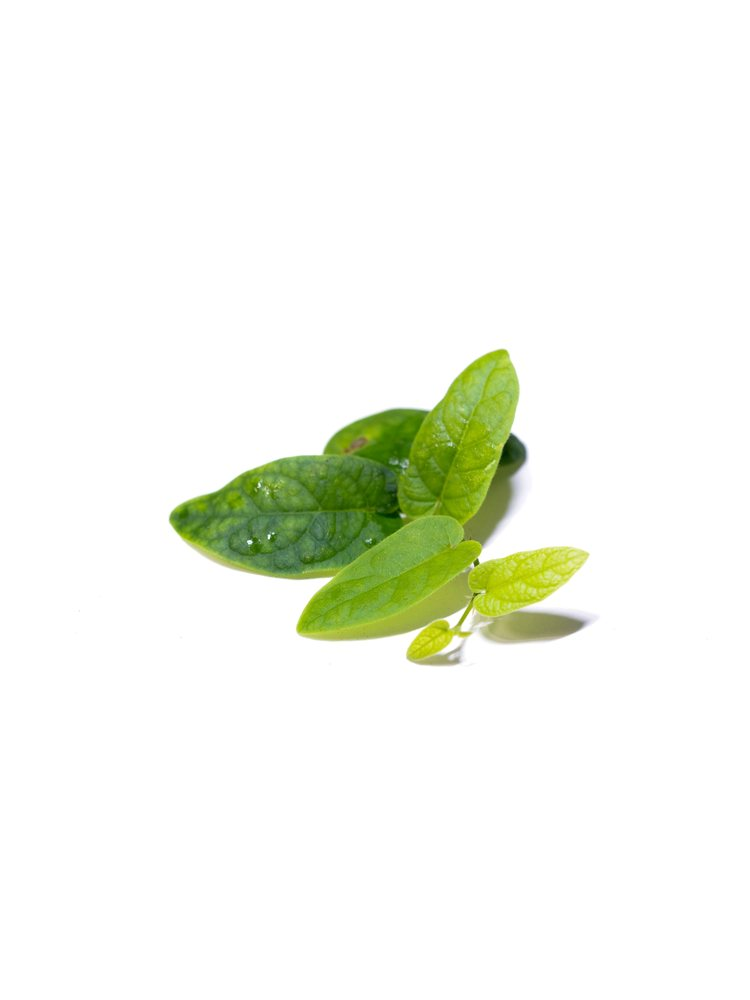
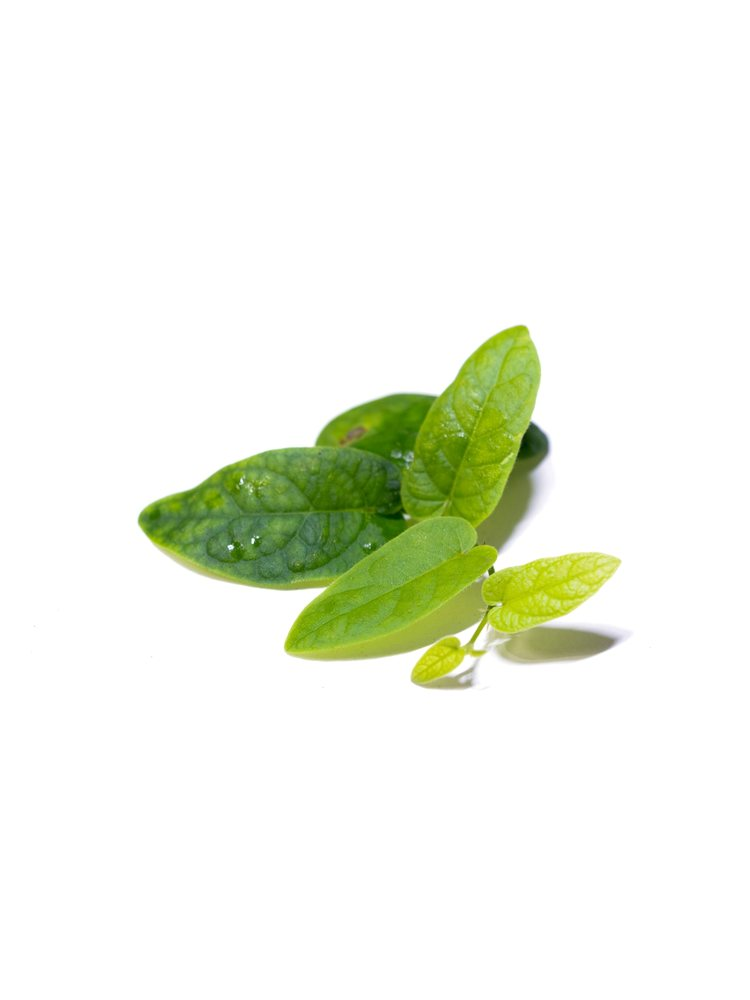
Show Ficus trichocarpa a little larger
Add a --size option to the photo tool for per-plant adjustment and
rebuild the trichocarpa photo at 1.15x; the other plants keep the
shared size.

Claude-Session: https://claude.ai/code/session_01RTzuFWkWY9WEpCoxYCoC66

Changed region(s): [[0.184, 0.31, 0.828, 0.713]]

diff --git a/plant/index.html b/plant/index.html
@@ -55,11 +55,11 @@
   <link rel="preconnect" href="https://fonts.googleapis.com">
   <link rel="preconnect" href="https://fonts.gstatic.com" crossorigin>
   <link rel="stylesheet" href="https://fonts.googleapis.com/css2?family=Figtree:ital,wght@0,300;0,700;0,800;1,300;1,700&family=Noto+Sans+KR:wght@300;700&family=Noto+Sans+JP:wght@300;700&display=swap">
-  <link rel="stylesheet" href="/assets/css/style.css?v=20261118t">
+  <link rel="stylesheet" href="/assets/css/style.css?v=20261118u">
 </head>
 <body class="page-sub">
   <!-- 상단 바 · PLANT 메뉴 (공통: assets/js/layout.js) -->
-  <script src="/assets/js/layout.js?v=20261118t"></script>
+  <script src="/assets/js/layout.js?v=20261118u"></script>
   <script>PM_LAYOUT.top()</script>
 
   <!-- ───────── PLANT 목록 ─────────
@@ -80,9 +80,9 @@
   <!-- 하단 · 검색 · 언어 창 (공통: assets/js/layout.js) -->
   <script>PM_LAYOUT.bottom()</script>
 
-  <script src="/assets/js/i18n.js?v=20261118t" defer></script>
-  <script src="/assets/js/main.js?v=20261118t" defer></script>
-  <script src="/assets/js/products.js?v=20261118t" defer></script>
-  <script src="/assets/js/plant.js?v=20261118t" defer></script>
+  <script src="/assets/js/i18n.js?v=20261118u" defer></script>
+  <script src="/assets/js/main.js?v=20261118u" defer></script>
+  <script src="/assets/js/products.js?v=20261118u" defer></script>
+  <script src="/assets/js/plant.js?v=20261118u" defer></script>
 </body>
 </html>

diff --git a/index.html b/index.html
@@ -55,11 +55,11 @@
   <link rel="preconnect" href="https://fonts.googleapis.com">
   <link rel="preconnect" href="https://fonts.gstatic.com" crossorigin>
   <link rel="stylesheet" href="https://fonts.googleapis.com/css2?family=Figtree:ital,wght@0,300;0,700;0,800;1,300;1,700&family=Noto+Sans+KR:wght@300;700&family=Noto+Sans+JP:wght@300;700&display=swap">
-  <link rel="stylesheet" href="/assets/css/style.css?v=20261118t">
+  <link rel="stylesheet" href="/assets/css/style.css?v=20261118u">
 </head>
 <body>
   <!-- 상단 바 · PLANT 메뉴 (공통: assets/js/layout.js) -->
-  <script src="/assets/js/layout.js?v=20261118t"></script>
+  <script src="/assets/js/layout.js?v=20261118u"></script>
   <script>PM_LAYOUT.top()</script>
 
   <!-- ───────── 홈 ───────── -->
@@ -101,8 +101,8 @@
   <script>PM_LAYOUT.bottom()</script>
 
 
-  <script src="/assets/js/i18n.js?v=20261118t" defer></script>
-  <script src="/assets/js/products.js?v=20261118t" defer></script>
-  <script src="/assets/js/main.js?v=20261118t" defer></script>
+  <script src="/assets/js/i18n.js?v=20261118u" defer></script>
+  <script src="/assets/js/products.js?v=20261118u" defer></script>
+  <script src="/assets/js/main.js?v=20261118u" defer></script>
 </body>
 </html>

diff --git a/assets/js/products.js b/assets/js/products.js
@@ -37,6 +37,6 @@ window.PM_PRODUCTS = [
     sci: ['Ficus trichocarpa', ''],
     price: 120000,
     status: 'available',
-    image: '/assets/img/products/ficus-trichocarpa.jpg?v=2'
+    image: '/assets/img/products/ficus-trichocarpa.jpg?v=3'
   }
 ];

diff --git a/tools/prepare_product_photo.py b/tools/prepare_product_photo.py
@@ -11,6 +11,7 @@
     (선택) --zoom 1.25: 식물을 더 크게 (1보다 크면 확대, 가장자리는 잘릴 수 있음)
                       --zoom 0.7 처럼 1보다 작으면 축소하고 순백 여백을 더함
     (선택) --fy 0.52  : 확대할 때 세로 위치를 직접 지정 (0=위 … 1=아래)
+    (선택) --size 1.15: 자동 맞춤은 그대로 두고 이 식물만 조금 크게(1.15 = 가로·세로 15%) / 작게(0.9)
     옵션 없이 실행하면 자동으로 크기·위치를 맞춥니다 (권장). 옵션을 주면 그 값대로 직접 자릅니다.
 
 필요한 것: Python 3, Pillow, NumPy  (pip install pillow numpy)
@@ -84,7 +85,7 @@ def flatten_background(img):
     return Image.fromarray(out.astype(np.uint8))
 
 
-def fit_3x4(img):
+def fit_3x4(img, size=1.0):
     """식물이 차지하는 면적을 무룽 라야와 같게 키우거나 줄이고, 남는 곳은 순백 여백으로 채움."""
     W, H = img.size
     a = np.asarray(img.convert('L'))
@@ -93,7 +94,7 @@ def fit_3x4(img):
         return crop_3x4(img)
     x1, x2 = np.percentile(xs, [0.5, 99.5])                 # 작은 티끌은 무시
     y1, y2 = np.percentile(ys, [0.5, 99.5])
-    fw = (0.75 * len(xs) / FIT_COVER) ** 0.5                # 식물 면적 ÷ 화면 면적 = FIT_COVER 가 되는 화면 폭
+    fw = (0.75 * len(xs) / FIT_COVER) ** 0.5 / size         # 식물 면적 ÷ 화면 면적 = FIT_COVER 가 되는 화면 폭 (size 로 개별 조정)
     fh = fw / 0.75
     x0 = int(round((x1 + x2) / 2 - fw * FIT_CX))
     y0 = int(round((y1 + y2) / 2 - fh * FIT_CY))
@@ -153,11 +154,12 @@ def main():
     ap.add_argument('--fx', type=float, default=None)
     ap.add_argument('--zoom', type=float, default=1.0)
     ap.add_argument('--fy', type=float, default=None)
+    ap.add_argument('--size', type=float, default=1.0)
     args = ap.parse_args()
     img = Image.open(args.src).convert('RGB')
     flat = flatten_background(img)
     manual = args.fx is not None or args.fy is not None or args.zoom != 1.0
-    out = crop_3x4(flat, args.fx, args.zoom, args.fy) if manual else fit_3x4(flat)
+    out = crop_3x4(flat, args.fx, args.zoom, args.fy) if manual else fit_3x4(flat, args.size)
     out.save(args.dst, quality=84, optimize=True, progressive=True)
     print(f'saved {args.dst} ({out.size[0]}x{out.size[1]})')
 

diff --git a/README.md b/README.md
@@ -51,6 +51,7 @@
    python3 tools/prepare_product_photo.py 원본사진.jpg assets/img/products/new-plant.jpg
    ```
    (Python과 `pip install pillow numpy` 필요. 아래쪽 그라데이션은 사이트가 모든 사진에 똑같이 넣으므로 사진에는 넣지 않습니다.)
+   특정 식물만 조금 크게/작게 보이게 하려면 끝에 `--size 1.15`(15% 크게) 또는 `--size 0.9`(10% 작게)를 붙입니다. 트리코카르파는 `--size 1.15`로 만들었습니다.
 2. `assets/js/products.js`에 한 묶음을 추가합니다 — 분류, 이름(한·영·일), 학명, 가격(원, 미정이면 `null` → "가격 문의"), 판매 상태(`available` / `soldout`), 사진 경로.
 3. PC·모바일 두 저장소에 똑같이 올립니다.
 - 지금 등록된 식물: 피커스 sp. ‘무룽 라야’ (₩22,000), 피커스 푼타타 Ficus punctata (₩60,000), 피커스 트리코카르파 Ficus trichocarpa (₩120,000)
